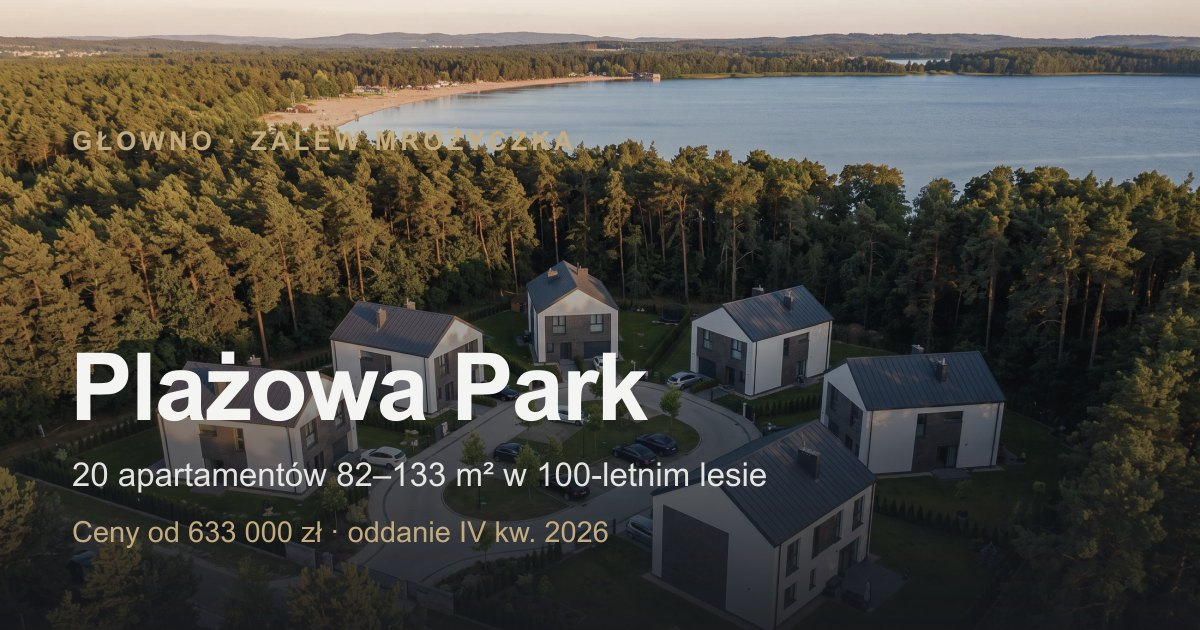
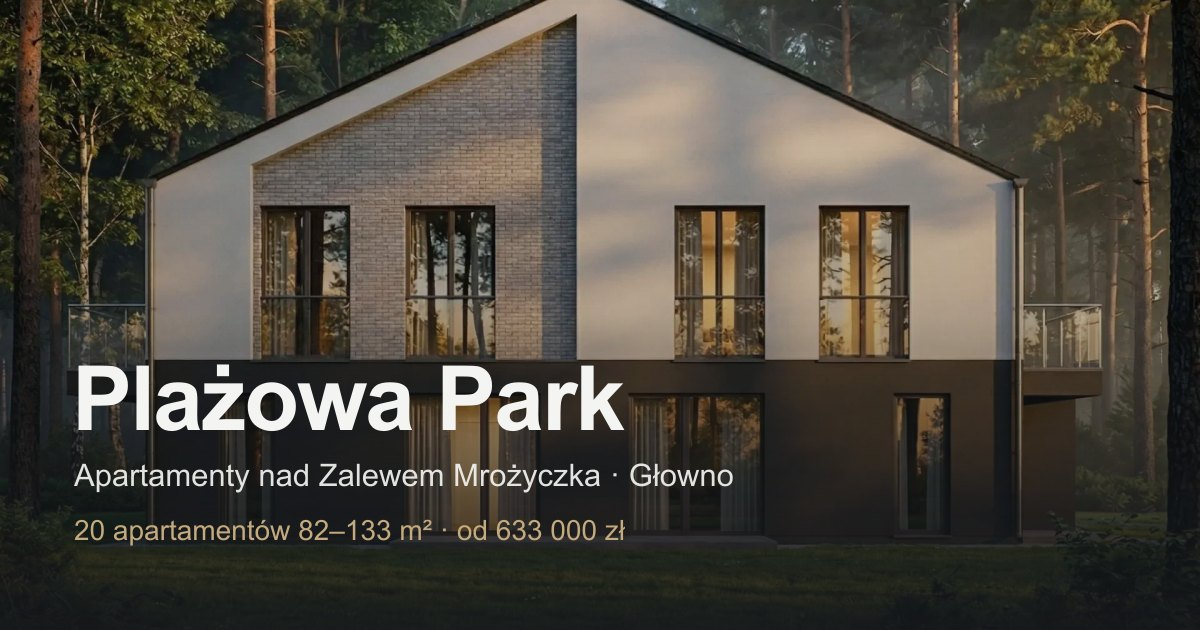
Fidelity + hero + symmetry: stick to real data, faithful visuals
Truthfulness audit (verified vs plazowa-park.pl model + satellite):
- REMOVED the Higgsfield aerial that invented a roundabout layout (+ aerial
  video, mono-pitch exterior-golden/facade-night/detail) — they misrepresented
  the estate. Real layout = 6 gable buildings in a rectangular plot with
  straight internal drives (per the developer's own 3D model).
- Lead all exteriors with the developer's REAL renders (01b, 03b, r_p*),
  labelled "Wizualizacja dewelopera". Interiors clearly stay illustrative.
- Day/night slider now uses the real 01b render (day) + a faithful blue-hour
  night render generated from it (same building). OG rebuilt from the real render.

Hero: replaced the video with the real 01b render (faithful, not artificial);
trimmed text (shorter H1, one-line sub, single compact facts line).

Units grid: centered flex-wrap so incomplete rows are symmetric (no orphan);
unit-page "Zobacz też" always shows 3.

diff --git a/components/Hero.tsx b/components/Hero.tsx
@@ -1,99 +1,52 @@
-"use client";
-
-import { useEffect, useRef, useState } from "react";
 import { SITE } from "@/lib/data/site";
 import { INVESTMENT } from "@/lib/data/units";
 import { plnShort } from "@/lib/format";
 import { Icon } from "./Icons";
 
-const facts = [
-  { k: `${INVESTMENT.totalUnits}`, l: "apartamentów" },
-  { k: "82–133", l: "m² powierzchni" },
-  { k: `od ${plnShort(INVESTMENT.priceMin)}`, l: "cena startowa" },
-];
-
 export default function Hero() {
-  const videoRef = useRef<HTMLVideoElement>(null);
-  const [reduce, setReduce] = useState(false);
-
-  useEffect(() => {
-    const m = window.matchMedia("(prefers-reduced-motion: reduce)");
-    setReduce(m.matches);
-    if (!m.matches) videoRef.current?.play().catch(() => {});
-  }, []);
-
   return (
     <section id="top" className="relative min-h-[100svh] w-full overflow-hidden bg-pine-deep">
-      {/* background media */}
+      {/* real developer render — faithful, no invented layout */}
       <div className="absolute inset-0">
-        {!reduce ? (
-          <video
-            ref={videoRef}
-            className="hero-fade h-full w-full object-cover"
-            poster="/renders/hero-poster.webp"
-            autoPlay
-            muted
-            loop
-            playsInline
-            preload="metadata"
-          >
-            <source src="/video/hero-house.mp4" type="video/mp4" />
-          </video>
-        ) : (
-          // eslint-disable-next-line @next/next/no-img-element
-          <img src="/renders/hero-poster.webp" alt="Apartament Plażowa Park w sosnowym lesie o zmierzchu" className="h-full w-full object-cover" />
-        )}
-        <div className="absolute inset-0 bg-gradient-to-t from-pine-deep/92 via-pine-deep/45 to-pine-deep/70" />
-        <div className="absolute inset-0 bg-[radial-gradient(120%_80%_at_50%_0%,transparent_40%,rgba(18,35,24,0.55)_100%)]" />
+        {/* eslint-disable-next-line @next/next/no-img-element */}
+        <img
+          src="/renders/render-01b.webp"
+          alt="Apartamenty Plażowa Park w sosnowym lesie o zachodzie słońca — Głowno"
+          className="h-full w-full object-cover object-[center_56%]"
+        />
+        <div className="absolute inset-0 bg-gradient-to-b from-pine-deep/60 via-transparent to-transparent" />
+        <div className="absolute inset-0 bg-gradient-to-t from-pine-deep/92 via-pine-deep/25 to-transparent" />
       </div>
 
-      {/* content */}
-      <div className="container-x relative flex min-h-[100svh] flex-col justify-end pb-16 pt-[calc(var(--nav-h)+2rem)]">
-        <div className="max-w-4xl">
-          <p className="hero-in eyebrow !text-brass-light" style={{ animationDelay: "0.1s" }}>
-            Nowa inwestycja · Głowno · woj. łódzkie
+      <div className="container-x relative flex min-h-[100svh] flex-col justify-end pb-14 pt-[var(--nav-h)]">
+        <div className="max-w-2xl">
+          <p className="hero-in eyebrow !text-brass-light" style={{ animationDelay: "0.08s" }}>
+            Nowa inwestycja · Głowno
           </p>
-          <h1
-            className="hero-in mt-5 text-balance text-[clamp(2.05rem,6.2vw,5.8rem)] leading-[1.0] text-paper"
-            style={{ animationDelay: "0.22s" }}
-          >
-            Apartamenty nad Zalewem Mrożyczka,
-            <span className="mt-1 block italic text-brass-light">w 100-letnim lesie.</span>
+          <h1 className="hero-in mt-4 text-[clamp(2rem,5vw,4.3rem)] font-semibold leading-[1.03] text-paper" style={{ animationDelay: "0.18s" }}>
+            Apartamenty nad<br />Zalewem Mrożyczka
           </h1>
-          <p
-            className="hero-in mt-6 max-w-2xl text-pretty text-lg leading-relaxed text-paper/85"
-            style={{ animationDelay: "0.34s" }}
-          >
-            Kameralne osiedle {INVESTMENT.totalUnits} apartamentów z prywatnym ogrodem i tarasem, bezpośrednio przy
-            plaży, molo i Central Wake Park. Głowno — {SITE.handoverDate}.
+          <p className="hero-in mt-5 max-w-lg text-pretty leading-relaxed text-paper/80" style={{ animationDelay: "0.3s" }}>
+            Kameralne osiedle {INVESTMENT.totalUnits} apartamentów z prywatnym ogrodem — przy plaży i 100-letnim
+            lesie. Oddanie {SITE.handoverDate}.
           </p>
 
-          <div className="hero-in mt-9 flex flex-wrap items-center gap-3.5" style={{ animationDelay: "0.46s" }}>
+          <div className="hero-in mt-8 flex flex-wrap items-center gap-3" style={{ animationDelay: "0.42s" }}>
             <a href="#lokale" className="btn btn-brass">
-              Sprawdź dostępność
-              <Icon.arrow width={18} height={18} />
+              Sprawdź dostępność <Icon.arrow width={18} height={18} />
             </a>
-            <a href="#kontakt" className="btn btn-light">
-              Umów prezentację
-            </a>
-            <a href={`tel:${SITE.phone.tel}`} className="hidden items-center gap-2 pl-3 text-sm font-medium text-paper/80 hover:text-paper sm:flex">
-              <Icon.phone width={17} height={17} className="text-brass-light" />
-              <span className="num">{SITE.phone.display}</span>
-            </a>
+            <a href="#kontakt" className="btn btn-light">Umów prezentację</a>
           </div>
 
-          {/* facts */}
-          <dl className="hero-in mt-12 grid max-w-2xl grid-cols-3 gap-x-6 gap-y-6 border-t border-paper/15 pt-7" style={{ animationDelay: "0.6s" }}>
-            {facts.map((f) => (
-              <div key={f.l}>
-                <dt className="font-display text-[1.7rem] leading-none text-paper num">{f.k}</dt>
-                <dd className="mt-1.5 text-xs uppercase tracking-[0.14em] text-paper/60">{f.l}</dd>
-              </div>
-            ))}
-          </dl>
+          <p className="hero-in mt-7 flex flex-wrap items-center gap-x-3 gap-y-1 text-sm text-paper/70" style={{ animationDelay: "0.54s" }}>
+            <span className="num">{INVESTMENT.totalUnits} apartamentów</span>
+            <span className="text-brass-light">·</span>
+            <span className="num">82–133 m²</span>
+            <span className="text-brass-light">·</span>
+            <span className="num">od {plnShort(INVESTMENT.priceMin)}</span>
+          </p>
         </div>
 
-        {/* scroll cue */}
         <a href="#osiedle" className="absolute bottom-6 right-6 hidden flex-col items-center gap-2 text-paper/60 hover:text-paper md:flex">
           <span className="text-[0.65rem] uppercase tracking-[0.2em] [writing-mode:vertical-rl]">Przewiń</span>
           <Icon.arrowDown width={18} height={18} className="scroll-cue" />

diff --git a/lib/data/site.ts b/lib/data/site.ts
@@ -112,23 +112,21 @@ export const FAQ = [
   },
 ] as const;
 
-// Curated gallery — mixes real developer renders with cinematic Higgsfield visuals
+// Gallery — real developer renders first, then interior visualisations + area photos.
 export type GalleryItem = { src: string; alt: string; span?: "wide" | "tall"; tag?: string; ai?: boolean };
 export const GALLERY: GalleryItem[] = [
-  { src: "/renders/exterior-golden.webp", alt: "Apartament narożny o zachodzie słońca — osiedle Plażowa Park w Głownie", span: "wide", tag: "Elewacja", ai: true },
+  { src: "/renders/render-03b.webp", alt: "Wizualizacja budynku Plażowa Park — elewacja w sosnowym lesie", span: "wide", tag: "Wizualizacja dewelopera" },
   { src: "/interiors/living.webp", alt: "Salon z panoramicznymi oknami i widokiem na sosnowy las — Plażowa Park", tag: "Salon", ai: true },
   { src: "/interiors/kitchen.webp", alt: "Otwarta kuchnia z wyspą i widokiem na las — apartament Plażowa Park", tag: "Kuchnia", ai: true },
-  { src: "/renders/aerial-golden.webp", alt: "Osiedle Plażowa Park z lotu ptaka w sosnowym lesie nad Zalewem Mrożyczka", span: "wide", tag: "Osiedle", ai: true },
+  { src: "/renders/exterior-bluehour.webp", alt: "Budynek Plażowa Park o zmierzchu z rozświetlonymi oknami", span: "wide", tag: "Wizualizacja dewelopera" },
   { src: "/interiors/bedroom.webp", alt: "Sypialnia z panoramicznym oknem na las — apartament Plażowa Park", tag: "Sypialnia", ai: true },
   { src: "/interiors/bathroom.webp", alt: "Łazienka premium z dużym prysznicem i wanną — Plażowa Park", tag: "Łazienka", ai: true },
-  { src: "/renders/facade-night.webp", alt: "Apartament Plażowa Park o zmierzchu z rozświetlonymi oknami", span: "wide", tag: "Elewacja nocą", ai: true },
+  { src: "/renders/exterior-06.webp", alt: "Wizualizacja apartamentu Plażowa Park — bryła i materiały", span: "tall", tag: "Wizualizacja dewelopera" },
   { src: "/interiors/dining.webp", alt: "Jadalnia z widokiem na sosnowy las — apartament Plażowa Park", tag: "Jadalnia", ai: true },
   { src: "/interiors/office.webp", alt: "Gabinet z panoramicznym oknem na las — Plażowa Park", tag: "Gabinet", ai: true },
   { src: "/interiors/terrace.webp", alt: "Prywatny taras apartamentu o zmierzchu — Plażowa Park", tag: "Taras", ai: true },
+  { src: "/renders/exterior-04.webp", alt: "Wizualizacja budynku Plażowa Park w otoczeniu lasu", tag: "Wizualizacja dewelopera" },
   { src: "/interiors/kids.webp", alt: "Pokój dziecka z widokiem na las — apartament Plażowa Park", tag: "Pokój dziecka", ai: true },
-  { src: "/renders/detail.webp", alt: "Detal elewacji: blacha na rąbek, elastyczna cegła i panoramiczne okno", tag: "Detal", ai: true },
-  { src: "/renders/render-01b.webp", alt: "Wizualizacja apartamentu Plażowa Park — bryła budynku", tag: "Architektura" },
-  { src: "/renders/render-03b.webp", alt: "Wizualizacja osiedla Plażowa Park w Głownie", tag: "Architektura" },
   { src: "/area/plaza.webp", alt: "Plaża nad Zalewem Mrożyczka w Głownie", span: "tall", tag: "Okolica" },
   { src: "/area/molo.webp", alt: "Molo i pomost nad Zalewem Mrożyczka", tag: "Okolica" },
   { src: "/area/wakepark.webp", alt: "Central Wake Park nad Zalewem Mrożyczka", tag: "Okolica" },

diff --git a/lib/data/blog.ts b/lib/data/blog.ts
@@ -18,8 +18,8 @@ export const POSTS: Post[] = [
     title: "Czy warto kupić mieszkanie w Głownie?",
     excerpt:
       "Głowno łączy spokój małego miasta z bliskością Łodzi i wyjątkową przyrodą Zalewu Mrożyczka. Sprawdź, dla kogo to dobry adres.",
-    cover: "/renders/aerial-golden.webp",
-    coverAlt: "Osiedle Plażowa Park w Głownie nad Zalewem Mrożyczka z lotu ptaka",
+    cover: "/renders/render-01b.webp",
+    coverAlt: "Budynek Plażowa Park w Głownie — wizualizacja w sosnowym lesie",
     date: "2026-05-12",
     readMin: 4,
     keywords: ["czy warto kupić mieszkanie w Głownie", "mieszkania Głowno", "nieruchomości Głowno"],
@@ -59,8 +59,8 @@ export const POSTS: Post[] = [
     title: "Dojazd z Głowna do Łodzi — ile zajmuje i jak dojechać",
     excerpt:
       "Około 30 minut samochodem autostradą A2 i DK14. Sprawdź, jak wygląda codzienny dojazd z Głowna do Łodzi.",
-    cover: "/renders/exterior-golden.webp",
-    coverAlt: "Apartament Plażowa Park o zachodzie słońca — dojazd do Łodzi w 30 minut",
+    cover: "/renders/render-03b.webp",
+    coverAlt: "Budynek Plażowa Park o zachodzie słońca — dojazd do Łodzi w 30 minut",
     date: "2026-06-08",
     readMin: 3,
     keywords: ["dojazd z Głowna do Łodzi", "Głowno Łódź odległość", "Głowno komunikacja"],

diff --git a/app/lokal/[slug]/page.tsx b/app/lokal/[slug]/page.tsx
@@ -40,9 +40,9 @@ export default async function UnitPage({ params }: { params: Promise<{ slug: str
 
   const s = STATUS_META[u.status];
   const building = BUILDINGS.find((b) => b.stageId === u.stageId);
-  const related = UNITS.filter((x) => x.stageId === u.stageId && x.id !== u.id).slice(0, 3);
-  const fallbackRelated = UNITS.filter((x) => x.id !== u.id).slice(0, 3);
-  const rel = related.length ? related : fallbackRelated;
+  const sameBuilding = UNITS.filter((x) => x.stageId === u.stageId && x.id !== u.id);
+  const others = UNITS.filter((x) => x.stageId !== u.stageId && x.id !== u.id);
+  const rel = [...sameBuilding, ...others].slice(0, 3);
   const inquireHref = `/?lokal=${encodeURIComponent(`Apartament ${u.name}`)}#kontakt`;
 
   const jsonLd = {

diff --git a/components/BeforeAfter.tsx b/components/BeforeAfter.tsx
@@ -42,15 +42,15 @@ export default function BeforeAfter() {
         >
           {/* night (base) */}
           {/* eslint-disable-next-line @next/next/no-img-element */}
-          <img src="/renders/facade-night.webp" alt="Apartament Plażowa Park o zmierzchu" className="absolute inset-0 h-full w-full object-cover" draggable={false} />
+          <img src="/renders/facade-night-01b.webp" alt="Budynek Plażowa Park o zmierzchu" className="absolute inset-0 h-full w-full object-cover" draggable={false} />
           <span className="absolute bottom-4 right-4 rounded-full bg-pine-deep/70 px-3 py-1 text-xs font-medium text-paper backdrop-blur-sm">Noc</span>
 
           {/* day (clipped from the right) */}
           <div className="absolute inset-0" style={{ clipPath: `inset(0 ${100 - pos}% 0 0)` }}>
             {/* eslint-disable-next-line @next/next/no-img-element */}
             <img
-              src="/renders/exterior-golden.webp"
-              alt="Apartament Plażowa Park o zachodzie słońca"
+              src="/renders/render-01b.webp"
+              alt="Budynek Plażowa Park o zachodzie słońca"
               className="absolute inset-0 h-full w-full object-cover"
               draggable={false}
             />

diff --git a/components/estate/EstateExplorer.tsx b/components/estate/EstateExplorer.tsx
@@ -119,9 +119,11 @@ export default function EstateExplorer() {
 
         {/* grid */}
         {filtered.length > 0 ? (
-          <div className="mt-8 grid gap-5 sm:grid-cols-2 xl:grid-cols-3">
+          <div className="mt-8 flex flex-wrap justify-center gap-5">
             {filtered.map((u) => (
-              <UnitCard key={u.id} unit={u} onOpen={setModal} />
+              <div key={u.id} className="w-full sm:w-[calc(50%-0.625rem)] xl:w-[calc(33.333%-0.834rem)]">
+                <UnitCard unit={u} onOpen={setModal} />
+              </div>
             ))}
           </div>
         ) : (

diff --git a/components/ExitIntent.tsx b/components/ExitIntent.tsx
@@ -73,7 +73,7 @@ export default function ExitIntent() {
       <div className="grain relative z-10 w-full max-w-lg overflow-hidden rounded-[18px] bg-paper shadow-[var(--shadow-lift)]">
         <div className="relative">
           {/* eslint-disable-next-line @next/next/no-img-element */}
-          <img src="/renders/exterior-golden.webp" alt="Apartament Plażowa Park" className="h-40 w-full object-cover" />
+          <img src="/renders/render-01b.webp" alt="Apartament Plażowa Park" className="h-40 w-full object-cover object-[center_60%]" />
           <button onClick={() => setOpen(false)} aria-label="Zamknij" className="absolute right-3 top-3 flex h-9 w-9 items-center justify-center rounded-full bg-paper/90 text-ink hover:bg-paper">
             <Icon.close width={18} height={18} />
           </button>